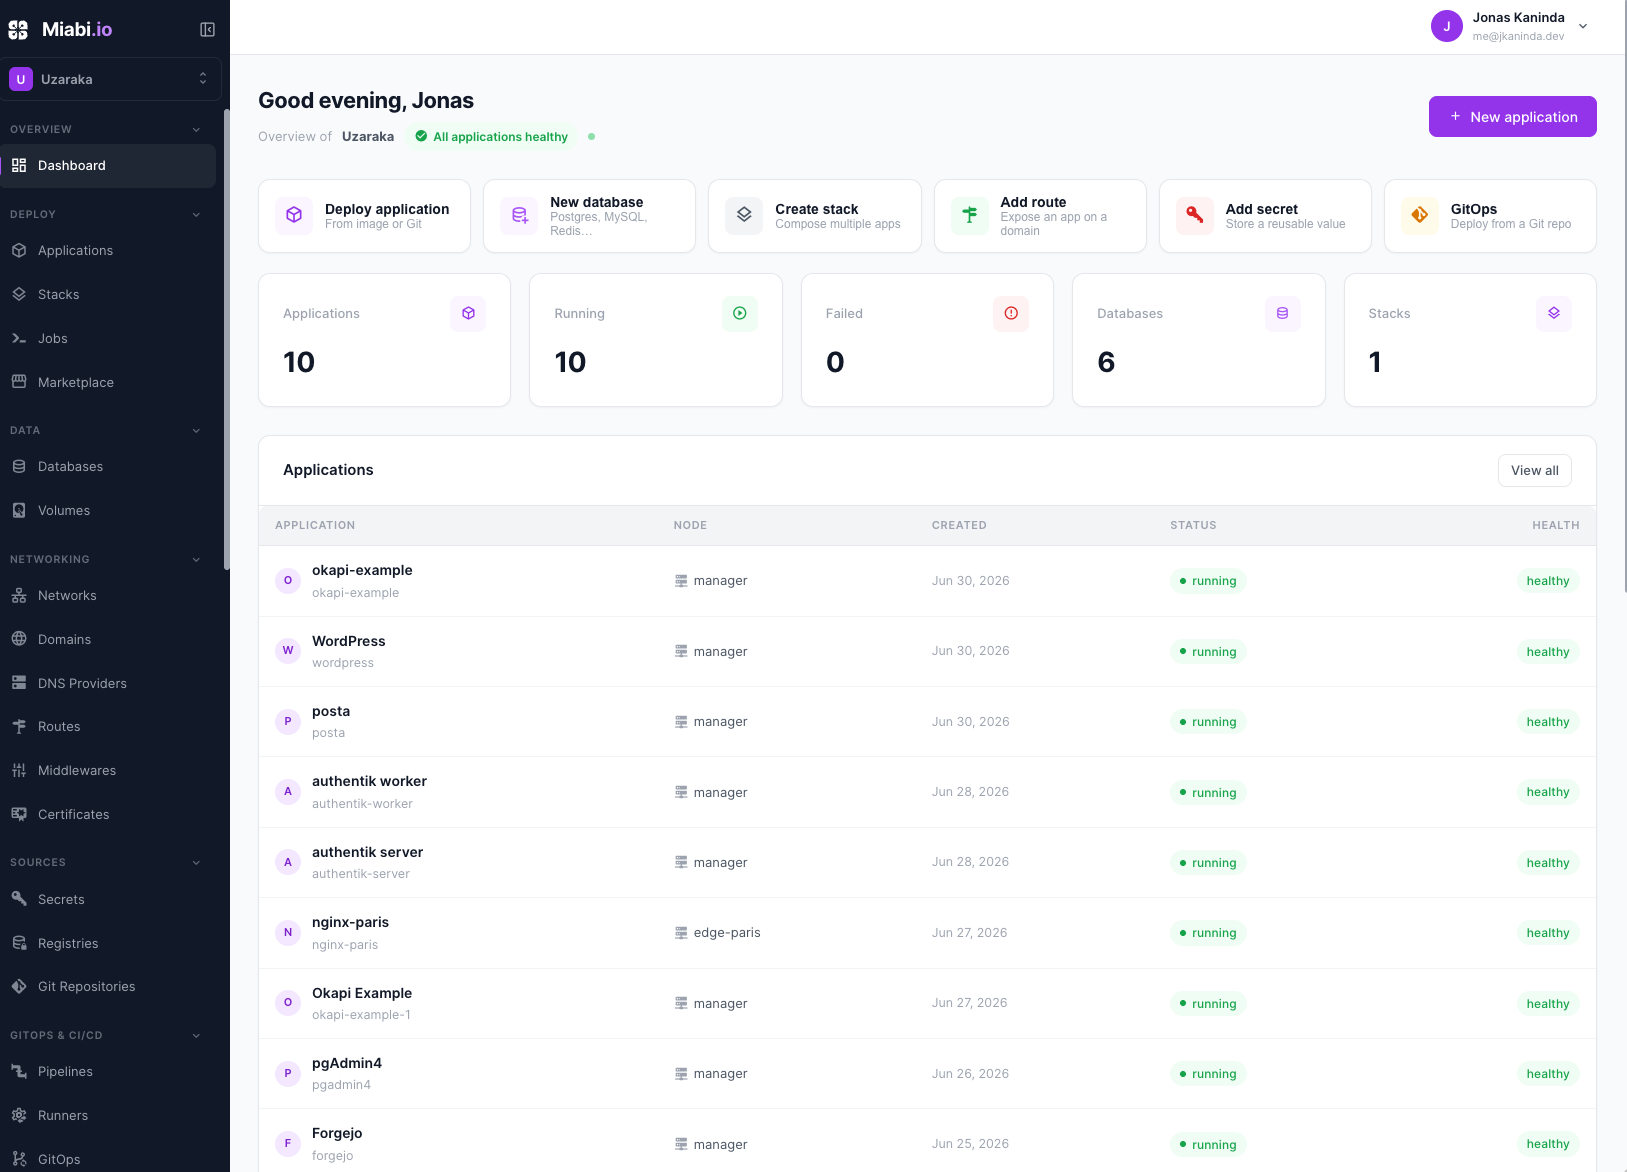
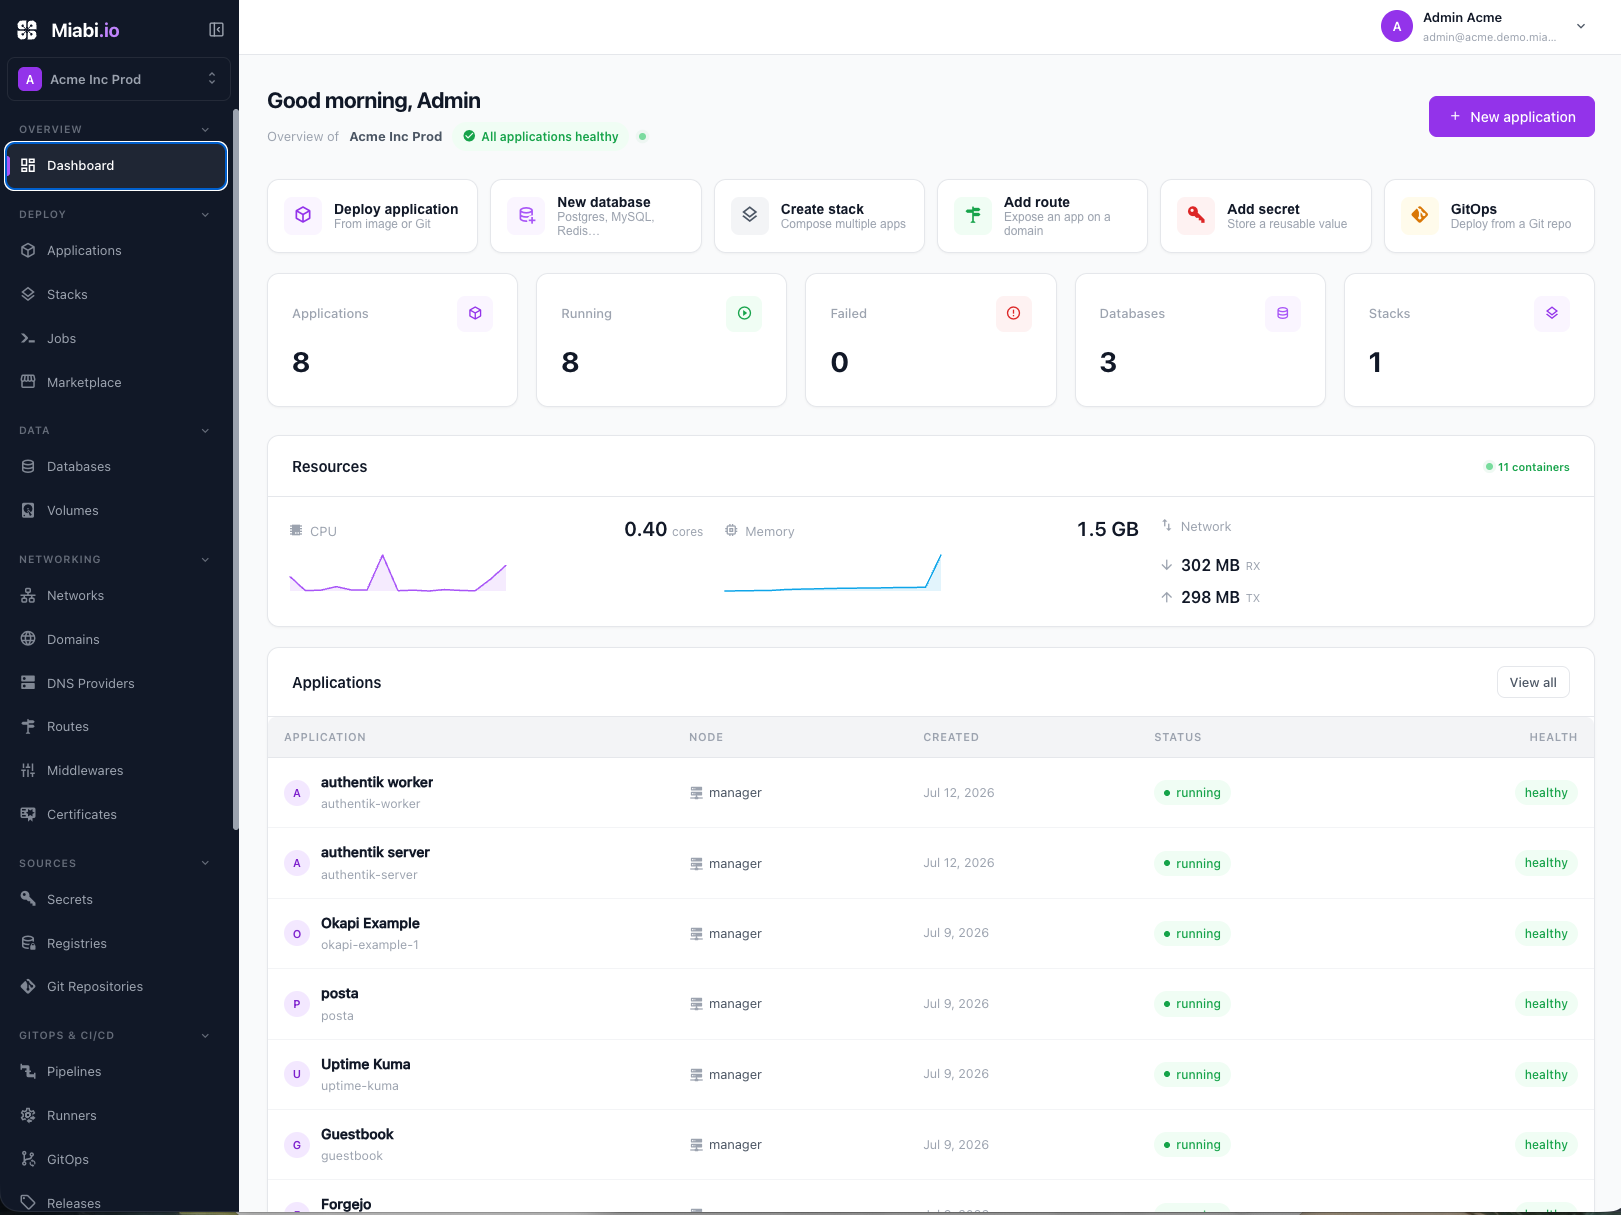
chore: update nodes, volumes & secrets documentation

diff --git a/sidebars.ts b/sidebars.ts
@@ -74,6 +74,13 @@ const sidebars: SidebarsConfig = {
     },
     {
       type: 'category',
+      label: 'Secrets',
+      items: [
+        'secrets/overview',
+      ],
+    },
+    {
+      type: 'category',
       label: 'Marketplace',
       items: [
         'marketplace/overview',

diff --git a/docs/cicd/cli.md b/docs/cicd/cli.md
@@ -1,7 +1,7 @@
 ---
 sidebar_position: 1
 title: CLI
-description: Drive Miabi from the terminal or CI with the miabi command-line tool — deploy, roll back, stream logs, and manage apps.
+description: Drive Miabi from the terminal or CI with the miabi command-line tool — deploy, roll back, stream logs, and manage apps, databases, and secrets.
 ---
 
 # CLI
@@ -11,10 +11,10 @@ public HTTP API** — the same API the web console uses — so anything you can 
 script from a terminal or a CI pipeline. Its headline job is the deploy flow:
 
 ```bash
-miabi deploy --app web --tag "$GIT_SHA" --wait
+miabi apps deploy web --tag "$GIT_SHA" --wait
 ```
 
-This updates the app's image tag, deploys it, **blocks until the deployment reaches a terminal
+This deploys the app at the given image tag, **blocks until the deployment reaches a terminal
 state**, and **exits non-zero if it failed** — exactly what you want in CI.
 
 :::note
@@ -26,13 +26,17 @@ releases, and the authoritative command reference live on GitHub:
 ## Install
 
 ```bash
-# Install script (from your Miabi instance)
-curl -sSL "$MIABI_URL/cli/install.sh" | sh
+# Go toolchain
+go install github.com/miabi-io/miabi-cli@latest   # installs the `miabi` binary
 ```
 
-Prebuilt binaries for Linux, macOS, and Windows (and packages) are published on the
-[releases page](https://github.com/miabi-io/miabi-cli/releases). See the repository for the current
-Homebrew/Scoop and container-image options.
+Or grab a **prebuilt binary** for Linux, macOS, or Windows from the
+[releases page](https://github.com/miabi-io/miabi-cli/releases/latest). There's also a container
+image for CI that needs no local install:
+
+```bash
+docker run --rm -e MIABI_URL -e MIABI_TOKEN miabi/miabi-cli:latest whoami
+```
 
 ## Authenticate
 
@@ -42,17 +46,18 @@ and token by environment variable — ideal for CI:
 ```bash
 export MIABI_URL="https://miabi.example.com"
 export MIABI_TOKEN="mb_…"       # created in the console: Settings → API tokens
-miabi whoami                    # verify: shows the token's scopes and workspace
+miabi whoami                    # verify: shows the identity, scopes, and active workspace/app
 ```
 
-Or log in once for interactive use — this stores the URL and token in `~/.miabi/config.yaml`:
+Or log in once for interactive use — this validates the token and stores the URL + token in
+`~/.miabi/config.yaml` (mode `0600`):
 
 ```bash
-miabi login
+miabi --url "$MIABI_URL" --token "$MIABI_TOKEN" login
 ```
 
 Configuration resolves in the order **flags → environment (`MIABI_URL`, `MIABI_TOKEN`) → config
-file**.
+file**. Point at a different file with `MIABI_CONFIG`.
 
 :::tip
 For CI, mint a least-privilege **deploy token** bound to one workspace and one app (scope `deploy`).
@@ -60,63 +65,121 @@ It can deploy that app and nothing else. Use broader `read`/`write` tokens for i
 [API tokens](/docs/security/api-tokens).
 :::
 
-### Workspaces
+## Context: workspace and app
 
-A workspace-bound token already targets its workspace. For a multi-workspace token, set the active
-workspace once:
+Most commands act on an app in a workspace. Rather than repeating those every time, set them once as
+**context** stored in `~/.miabi/config.yaml`:
 
 ```bash
-miabi workspace list                 # id, name, slug, role
-miabi workspace switch acme          # persists the active workspace in ~/.miabi/config.yaml
+miabi workspace list                 # id, name, role  (alias: ws)
+miabi workspace switch acme          # set the active workspace
 miabi workspace show                 # the currently active workspace
+
+miabi use web                        # bind a default app for app-scoped commands
+miabi use                            # show the current binding
+miabi use --clear                    # unbind
 ```
 
-Subsequent commands then address that workspace automatically (you can still override per-command
-with `--workspace`).
+With an app bound, app commands need no argument (`miabi apps deploy` targets the bound app). The
+binding is **per workspace** and is cleared when you switch workspaces. You can always override
+per-command with a positional app argument or `--workspace/-w`. A workspace-bound token already
+targets its workspace, so it needs no `workspace switch`.
 
 ## Commands
 
+App-scoped commands live under **`apps`** (alias of `app`) and take the app as their **first
+argument**, or use the app bound with `miabi use`.
+
 | Command | What it does |
 |---|---|
-| `miabi login` | Store URL + token in `~/.miabi/config.yaml`. |
-| `miabi whoami` | Show the token's scopes, workspace, and bound app. |
-| `miabi workspace list \| show \| switch <slug-or-id>` | List, show, or set the active workspace. |
-| `miabi deploy --app <slug> [--image <ref>] [--tag <tag>] [--digest <sha>] [--strategy <s>] [--wait] [--timeout 5m]` | Deploy an app; `--wait` blocks and exits non-zero on failure. |
-| `miabi rollback --app <slug> [--release <n> \| --to-previous]` | Roll back to a previous release. |
-| `miabi status --app <slug> [--deployment <n>] [--json]` | Show app / deployment status. |
-| `miabi logs --app <slug> --deployment <n> [--follow]` | Show deployment logs; `--follow` streams them. |
-| `miabi releases --app <slug> [--json]` | List an app's releases. |
-| `miabi apps [--json]` | List the workspace's applications. |
-| `miabi env set --app <slug> KEY=VALUE` | Set an environment variable. |
-| `miabi env import --app <slug> --file .env` | Bulk-import environment variables from a file. |
-| `miabi apply -f <file> [--prune] [--dry-run]` | Apply [declarative manifests](/docs/cicd/gitops) (create/update/converge). |
+| `miabi login` · `miabi whoami` | Store URL + token; show identity, scopes, and active context. |
+| `miabi workspace list \| show \| switch <name-or-id>` | List, show, or set the active workspace. |
+| `miabi use [app] \| --clear` | Bind (or show/clear) the default app. |
+| `miabi apps ls` | List the workspace's applications (marks the bound app). |
+| `miabi apps create <name> (--image <img> [--tag] \| --git-repo <url> [--git-ref]) [--port] [--use]` | Create an app from an image or Git source. |
+| `miabi apps deploy [app] [--tag <tag>] [--strategy <s>] [--wait] [--timeout 10m]` | Deploy; `--wait` blocks and exits non-zero on failure. |
+| `miabi apps start \| stop \| restart [app]` | Control the app's container. |
+| `miabi apps rollback [app] (--to <version> \| --to-previous) [--yes]` | Roll back to a previous release. |
+| `miabi apps status [app] [--deployment <n>]` | Show app / deployment status. |
+| `miabi apps logs [app] [--follow] [--tail N] [--deployment <n>]` | Runtime logs (or a deployment's build logs with `--deployment`); `--follow` streams. |
+| `miabi apps deployments [app]` | Deploy history — the `NUMBER` column addresses a deployment. |
+| `miabi apps releases [app]` | List an app's releases (by `VERSION`). |
+| `miabi apps env set [app] KEY=VALUE [--secret]` | Set an environment variable (or a secret ref). |
+| `miabi apps env import [app] --file .env [--secret]` | Bulk-import variables from a file. |
+| `miabi apps rm [app] [--yes]` | Delete an application. |
+| `miabi db …` | Manage database instances + logical databases (see below). |
+| `miabi secrets …` | Manage the workspace secret vault (see below). |
+| `miabi apply -f <file> [--prune] [--dry-run]` | Converge to [declarative manifests](/docs/cicd/gitops). |
+| `miabi delete -f <file> [--dry-run]` | Delete exactly the resources a manifest bundle names. |
+| `miabi completion <shell>` | Shell completion (tab-completes app slugs). |
 
-Common flags:
+### Databases
+
+Managed instances (PostgreSQL, MySQL, MariaDB, Redis, MongoDB, libSQL) and the logical databases on
+them. Instances are addressed by **slug** (or numeric id).
+
+```bash
+miabi db ls                                   # list instances
+miabi db engines                              # engines + default versions
+miabi db create shop --engine postgres [--version 16] [--size-mb 2048] [--node <id>]
+miabi db get shop
+miabi db start | stop | restart shop
+miabi db logs shop [--follow] [--tail 200]
+miabi db credentials shop                     # reveal admin connection (admin)
+miabi db upgrade shop --to 17 [--stop-apps]
+miabi db rm shop [--yes]
+# logical databases on an instance:
+miabi db databases shop                              # list
+miabi db databases create shop app_prod [--app web]  # optionally attach to an app
+miabi db databases connection shop app_prod          # reveal connection (admin)
+miabi db databases rm shop app_prod [--yes]
+```
+
+### Secrets
+
+The workspace [secret vault](/docs/secrets/overview): values encrypted at rest, write-only over the
+API, referenced from an app's env as `${{ secrets.NAME }}`. Addressed by **name**. Supply a value
+with `--from-file` (or stdin) to keep it out of your shell history.
+
+```bash
+miabi secrets ls                              # list (no values)
+miabi secrets get API_KEY                     # description, version, timestamps
+miabi secrets set API_KEY --from-file api.key # create, or rotate if it exists
+cat api.key | miabi secrets set API_KEY --from-file -
+miabi secrets reveal API_KEY                  # print the value (admin; audited)
+miabi secrets usage API_KEY                   # apps referencing it
+miabi secrets rm API_KEY [--yes]
+```
+
+### Common flags
 
 - `--wait` — block on the deploy and **exit non-zero** when it ends `failed` (CI gating).
-- `--json` — machine-readable output on read commands, for `jq`-friendly scripting.
-- `--app` — the app slug; the workspace comes from the token or `--workspace`.
-- `--verbose` — log HTTP requests to stderr.
+- `-o, --output table|json|yaml` (or the `--json` shorthand) — machine-readable output for
+  `jq`/`yq`-friendly scripting; human tables otherwise.
+- `-w, --workspace <name-or-id>` — override the active/bound workspace for one command.
+- `--no-color` — plain output (also auto-disabled off a TTY or when `NO_COLOR` is set).
+- `--verbose` — log every HTTP request to stderr.
 
 ## In CI/CD
 
 The CLI is the recommended way to deploy from a pipeline. Set `MIABI_URL` and a deploy token as
-`MIABI_TOKEN`, then call `deploy --wait`:
+`MIABI_TOKEN`, then call `apps deploy --wait`:
 
 ```yaml
 # GitHub Actions
 - name: Deploy to Miabi
   run: |
-    curl -sSL "$MIABI_URL/cli/install.sh" | sh
-    miabi deploy --app web --image ghcr.io/org/web --tag "${{ github.sha }}" --wait
+    go install github.com/miabi-io/miabi-cli@latest
+    miabi apps deploy web --tag "${{ github.sha }}" --wait
   env:
     MIABI_URL:   ${{ vars.MIABI_URL }}
     MIABI_TOKEN: ${{ secrets.MIABI_DEPLOY_TOKEN }}
 ```
 
-Because `--wait` exits non-zero on a failed rollout, a broken deploy fails the pipeline step.
+Because `--wait` exits non-zero on a failed rollout, a broken deploy fails the pipeline step. (The
+container image `miabi/miabi-cli:latest` is a drop-in alternative to `go install`.)
 
-If you'd rather not install a binary, the same deploy is one HTTP call. The `{workspace}` segment is
+If you'd rather not install anything, the same deploy is one HTTP call. The `{workspace}` segment is
 a real workspace — its numeric id, its UID, or its handle. There is no `current` alias on the API
 (the CLI resolves that client-side):
 
@@ -133,6 +196,7 @@ status to gate a pipeline on the rollout.
 ## Related
 
 - [API tokens](/docs/security/api-tokens) — create the token the CLI authenticates with.
-- [GitOps](/docs/cicd/gitops) — the declarative counterpart driven by `miabi apply`.
+- [GitOps](/docs/cicd/gitops) — the declarative counterpart driven by `miabi apply` / `miabi delete`.
+- [Secrets](/docs/secrets/overview) — the vault managed by `miabi secrets`.
 - [Pipelines](/docs/cicd/pipelines) and [Git push deploy](/docs/cicd/git-push-deploy) — in-platform
   build/deploy automation.

diff --git a/docs/secrets/overview.md b/docs/secrets/overview.md
@@ -1,0 +1,84 @@
+---
+sidebar_position: 1
+title: Secrets
+description: The workspace secret vault — store any sensitive value, manage custom and managed secrets, and reference them from apps and jobs.
+---
+
+# Secrets
+
+Every [workspace](/docs/workspaces/overview) has a **secret vault** for sensitive values. It's a
+general-purpose store — not limited to application settings. Keep **any** secret your workloads need:
+third-party API keys, access tokens, webhook signing keys, database passwords, connection strings,
+SMTP credentials, and so on. Values are **encrypted at rest**, never logged, and never returned in
+plain text. Open **Secrets** in the workspace sidebar to manage them.
+
+![The workspace secret vault](/img/screenshots/secrets.png)
+
+A secret has a unique **name** (the handle you reference), an encrypted **value**, an optional
+**description**, and a **version** that bumps every time the value changes.
+
+## Referencing a secret
+
+Reference a secret anywhere an environment variable is set — an app or a one-off
+[job](/docs/applications/jobs) — with:
+
+```
+${{ secrets.NAME }}
+```
+
+The reference is resolved into the container's environment **at deploy/job time** — the plaintext
+never lives in the stored config, the API, or the logs. A deploy fails loudly if it references a
+secret that doesn't exist, rather than injecting a blank. See
+[Environment Variables & Secrets](/docs/applications/environment-variables) for the env-var side.
+
+Because the vault is shared across the workspace, you define a secret once and reference it from every
+workload that needs it — rotate it in one place and every consumer picks up the new value on its next
+deploy.
+
+## Custom secrets
+
+Custom secrets are the ones **you** create and own.
+
+- **Create** — give it a name (letters, digits, `_` or `-`), a value, and an optional description.
+  Store whatever you like here; it doesn't have to be tied to a specific app.
+- **Edit / rotate** — set a new value to rotate it. The version increments, and **every app that
+  references the secret is redeployed** so it picks up the new value — rotate in one place, not
+  workload by workload. (Editing only the description doesn't trigger a redeploy.)
+- **Reveal** — because values are masked, treat secrets as write-only. A **workspace admin** can
+  reveal a value when needed; every reveal is **audit-logged**.
+- **Delete** — allowed only when no app references the secret. If it's still in use, Miabi refuses
+  and tells you to remove the references first, so a deploy can never break on a missing secret.
+
+## Managed secrets
+
+Some secrets are **managed** — auto-created and owned by a platform resource rather than by you. The
+common case is a [managed database](/docs/databases/overview): when you provision one, Miabi
+generates its credentials and stores them as managed secrets so you can reference them from your apps
+instead of copying connection strings by hand.
+
+Managed secrets are marked with a **managed** badge in the vault and behave differently from custom
+ones:
+
+- Their **value is derived** from the owning resource — you rotate or remove them **through the
+  owner** (e.g. rotate the database's credentials), not by editing the secret directly. Edit and
+  delete are disabled for them in the vault.
+- Their **lifecycle follows the owner** — deleting the owning resource removes its managed secrets;
+  a hand delete is refused.
+- You reference them exactly like a custom secret, with `${{ secrets.NAME }}`.
+
+This keeps credentials in the vault — encrypted, versioned, and rotatable — while ensuring a managed
+value and its owner can never drift apart.
+
+## Who can do what
+
+- **View** the secret list (names, descriptions, versions) — any workspace member with read access.
+- **Create, edit/rotate, delete** custom secrets — members with edit permission (see
+  [Roles & Permissions](/docs/workspaces/roles-and-permissions)).
+- **Reveal** a value — workspace **admins** only, and it's audited.
+
+## Related
+
+- [Environment Variables & Secrets](/docs/applications/environment-variables) — referencing secrets from app config.
+- [Jobs](/docs/applications/jobs) — one-off tasks that can also reference secrets.
+- [Databases](/docs/databases/overview) — where managed credential secrets come from.
+- [Encryption](/docs/security/encryption) — how secret values are protected at rest.

diff --git a/docs/editions/licensing.md b/docs/editions/licensing.md
@@ -1,7 +1,7 @@
 ---
 sidebar_position: 2
 title: Licensing
-description: How Miabi's signed, offline, public-key-verified license key works and how to activate Enterprise.
+description: How to unlock Miabi Enterprise — contact sales for a signed, offline license key.
 ---
 
 # Licensing
@@ -10,43 +10,13 @@ Miabi Enterprise is unlocked by a **signed license key**. The key is verified **
 
 ![License activation](/img/screenshots/license.png)
 
-## How the key works
+## Getting a license
 
-Each license key is cryptographically **signed**. The Miabi binary embeds the matching **public key**, and at startup it verifies the signature locally:
+To unlock Enterprise features, contact **[sales@miabi.io](mailto:sales@miabi.io)**.
 
-- If the signature is valid, the entitlements encoded in the key (such as node count and feature flags) are unlocked.
-- If the key is missing, malformed, or its signature doesn't verify, Enterprise features stay locked.
-
-Because verification is purely cryptographic and local, Miabi works the same in air-gapped and offline environments as it does on a connected server. There is no usage reporting and no outbound license traffic.
-
-:::note
-Offline verification means you stay in control of your data and your network. The trade-off is that license changes are applied by installing a new key, not by an automatic refresh.
-:::
-
-## Community deny-all stub vs Enterprise build
-
-The edition you run determines whether a license key even applies:
-
-| Build | Command | Behavior |
-|-------|---------|----------|
-| **Community** | `make build` | Links a **deny-all stub** for Enterprise features. A license key has nothing to unlock — the features aren't compiled in. |
-| **Enterprise** | `make build-ee` | Compiles Enterprise features behind the `enterprise` build tag, locked until a valid signed key unlocks them at runtime. |
-
-So unlocking Enterprise requires **both** the Enterprise build and a valid license key. See [Community vs Enterprise](/docs/editions/community-vs-enterprise) for the full feature matrix.
-
-:::note
-You usually don't build this yourself. The official **`miabi/miabi` images and release binaries are already the Enterprise build** (dormant until licensed), so you only need to install a key. A pure Community build — zero enterprise code — is produced only by building from source with `make build`; there is no published Community image.
-:::
-
-## Activating a license
-
-To activate Enterprise:
-
-1. Run an **Enterprise-capable build** of Miabi. The official `miabi/miabi` images and release binaries already are — if you build from source instead, use `make build-ee`.
-2. As a platform admin, open the licensing screen in the web console.
-3. Provide the **signed license key** to the instance.
-
-Miabi verifies the signature offline and unlocks the entitlements immediately — no restart or network call required. The console then reflects your active edition and the features the key grants.
+1. As a platform admin, open **Admin → License** in the web console and copy your **Install ID**.
+2. Email **[sales@miabi.io](mailto:sales@miabi.io)** with that Install ID to obtain a license key.
+3. Install the key on the same **Admin → License** screen. Enterprise features unlock immediately — no restart or network call required, and the console reflects your active edition.
 
 :::tip
 Keep your license key somewhere safe alongside your other operational secrets. You'll need it again if you rebuild or migrate the instance.

diff --git a/docs/applications/environment-variables.md b/docs/applications/environment-variables.md
@@ -23,7 +23,7 @@ Use plain variables for non-sensitive configuration and secrets for anything tha
 
 ## The workspace secret vault
 
-Secrets live in a **workspace secret vault**, shared across the apps in that [workspace](/docs/workspaces/overview). Define a secret once and reference it from any application that needs it — rotate it in one place and every consumer picks up the new value on its next deploy.
+Secrets live in a **workspace secret vault**, shared across the apps in that [workspace](/docs/workspaces/overview). Define a secret once and reference it from any application with `${{ secrets.NAME }}` — rotate it in one place and every consumer picks up the new value on its next deploy. See [Secrets](/docs/secrets/overview) for managing the vault, including custom vs. managed secrets.
 
 All secret values are **encrypted at rest** and are never logged or returned in plain text. See [Encryption](/docs/security/encryption) for how Miabi protects them.
 
